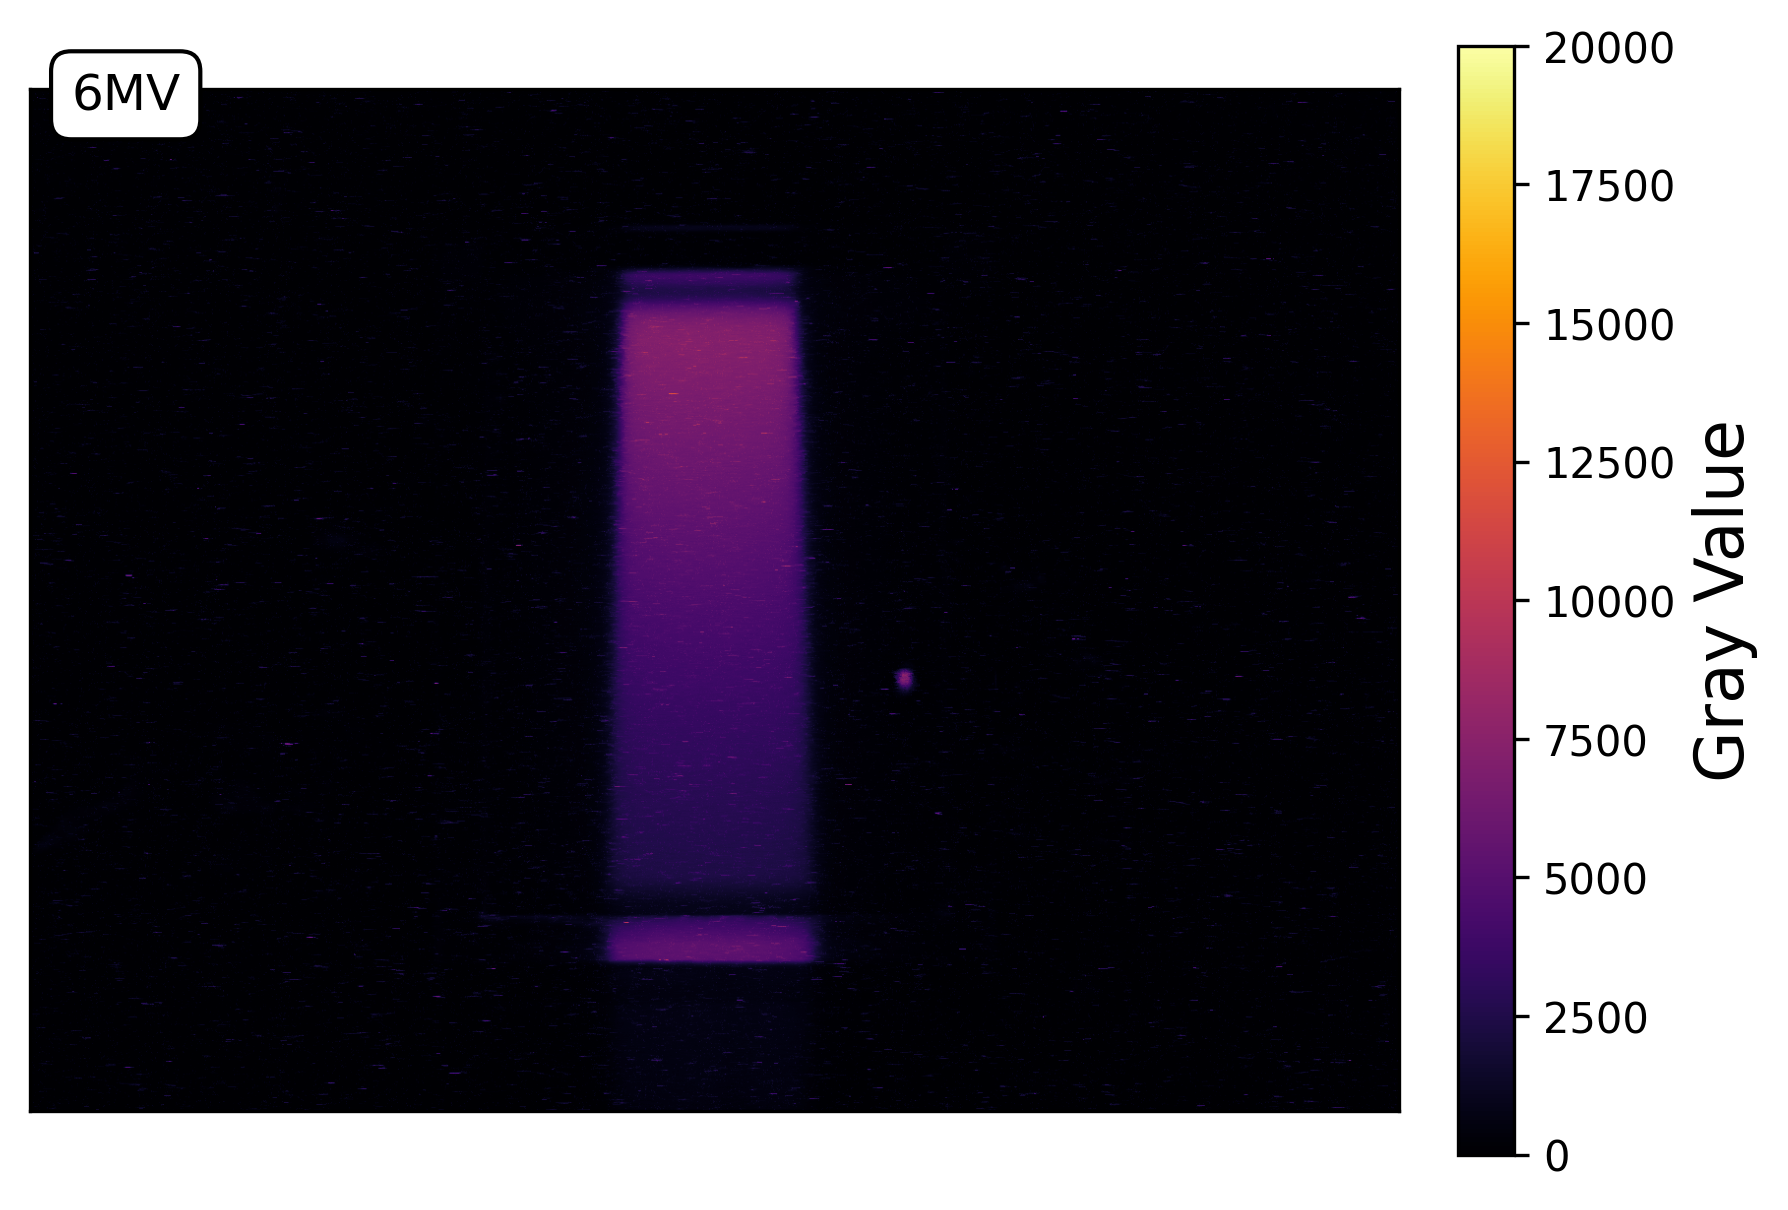
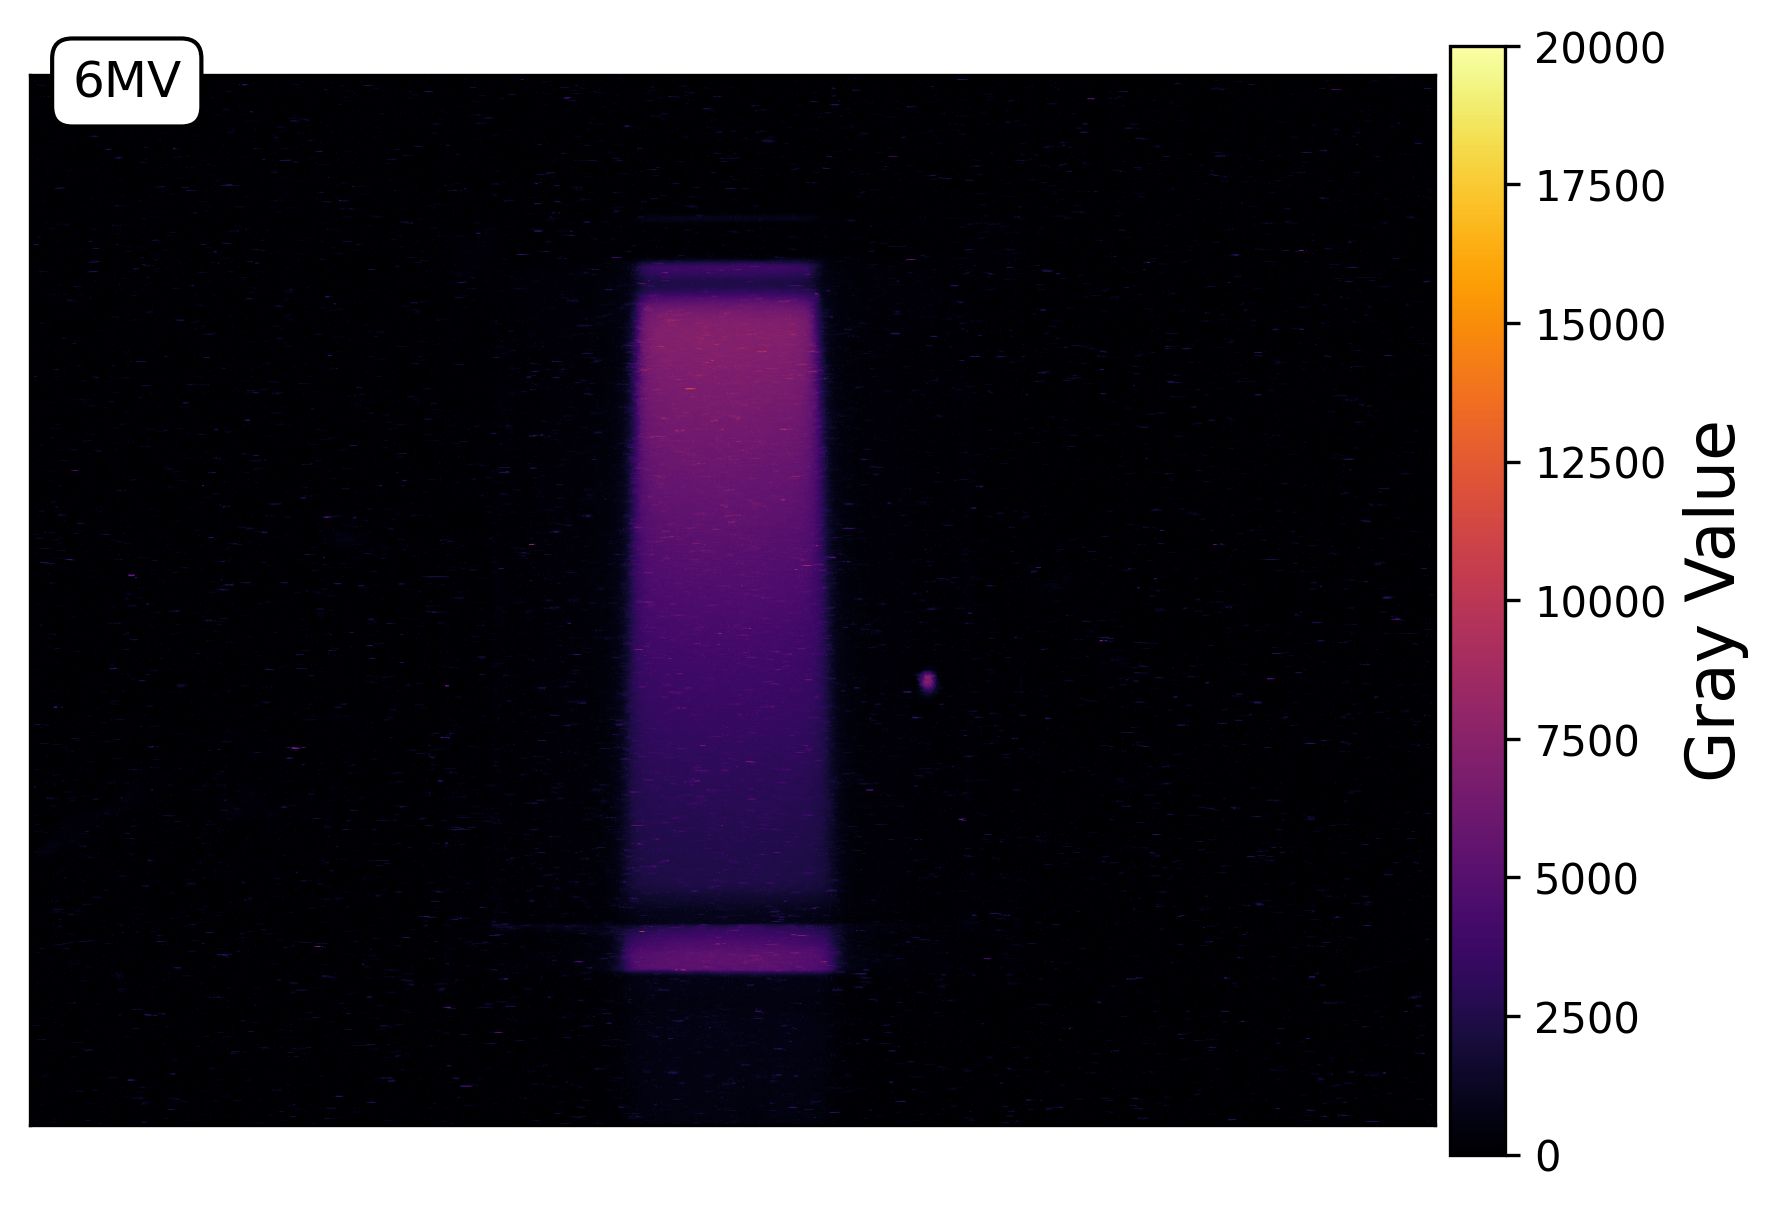
Correcting colormap and adding nonpolarized

diff --git a/LINAC/japanese.py b/LINAC/japanese.py
@@ -1,6 +1,7 @@
 import cv2 as cv
 import numpy as np
 import matplotlib.pyplot as plt
+from matplotlib.cm import ScalarMappable
 from scipy.signal import medfilt2d
 import os
 import glob
@@ -122,10 +123,10 @@ class Japanese:
         for name, image_data in images.items():
             fig, ax = plt.subplots()
             im = ax.imshow(image_data, cmap=colormap_name, vmin=0, vmax=vvmax)
-            cbar = plt.colorbar(im, ax=ax, fraction=0.04, pad=0.04)
+            cbar = plt.colorbar(im, ax=ax, fraction=0.046, pad=0.01)
+            cbar.set_label('Gray Value', fontsize=16)
             ax.tick_params(left=False, bottom=False, labelleft = False ,
                 labelbottom = False)
-            cbar.set_label('Gray Value', fontsize=16)
             ax.text(0.03, 0.98, self.energy, transform=ax.transAxes,
                 fontsize=12, color='black',
                 bbox=dict(facecolor="w", edgecolor='k', boxstyle='round,pad=0.4'))
@@ -151,7 +152,7 @@ class Japanese:
         for name, improved_image in images.items():
             cv.imwrite(os.path.join(directory, name + ".png"), improved_image)
 
-    def polarizing_component(self, colormap_max=3000):
+    def polarizing_component(self, colormap_max=20000):
         directory = os.path.join(self.path, "Japan_Data", self.energy)
 
         if not os.path.exists(directory):
@@ -165,7 +166,22 @@ class Japanese:
 
         polarizing_component_array = np.clip(parallel - perpendicular, 0, None).astype(np.uint16)
 
+        cv.imwrite(os.path.join(directory, "pol_comp.png"), polarizing_component_array)
         polarizing_component = {"pol_comp": polarizing_component_array}
-        print(parallel[0][1390], perpendicular[0][1390], polarizing_component["pol_comp"][0][1390])
-        print(polarizing_component)
         self.plot_colormap(polarizing_component, vvmax=colormap_max)
+        return perpendicular, polarizing_component["pol_comp"]
+
+    def non_polarized(self, colormap_max=20000):
+        directory = os.path.join(self.path, "Japan_Data", self.energy)
+
+        if not os.path.exists(directory):
+            os.makedirs(directory)
+
+        perpendicular = self.polarizing_component()[0]
+        polaring_component = self.polarizing_component()[1]
+
+        nonpolarized_array = np.clip(perpendicular-polaring_component, 0, None).astype(np.uint16)
+
+        cv.imwrite(os.path.join(directory, "non_pol.png"), nonpolarized_array)
+        nonpolarized = {"non_pol": nonpolarized_array}
+        self.plot_colormap(nonpolarized, vvmax=colormap_max)

diff --git a/LINAC/main.py b/LINAC/main.py
@@ -36,8 +36,9 @@ if __name__ == "__main__":
     #improved.improve_data(colormap=True)
     #improved.see_raw_images()
 
-    japan.improve_data()
+    #japan.improve_data()
     japan.polarizing_component()
+    japan.non_polarized()
 
     # Appeler les méthodes de calibration de la caméra
     #calibrator.print_calib_coeff()
